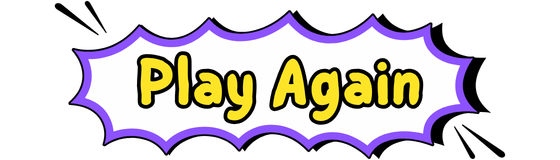
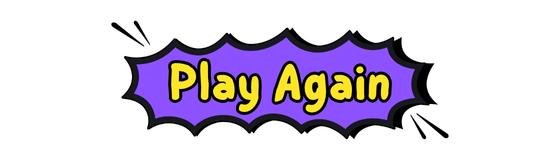
Custom Play Again Button Functionality Added

diff --git a/src/App.jsx b/src/App.jsx
@@ -561,7 +561,7 @@ export default function App() {
             </div>
           </div>
 
-          <button
+          <PlayAgainButton
             onClick={async () => {
               await update(ref(db, `rooms/${currentRoom}`), { status: 'lobby', winner: null, submissions: null });
               const resetPlayers = {};
@@ -570,10 +570,7 @@ export default function App() {
               });
               await update(ref(db, `rooms/${currentRoom}/players`), resetPlayers);
             }}
-            className="bg-amber-400 hover:bg-amber-300 text-black font-black py-2.5 px-6 rounded-2xl border-4 border-black shadow-[4px_4px_0px_0px_rgba(0,0,0,1)] text-base transition-all active:translate-x-1 active:translate-y-1 active:shadow-none cursor-pointer"
-          >
-            PLAY AGAIN
-          </button>
+          />
         </div>
       </div>
     );
@@ -769,6 +766,27 @@ function HostLobbyButton({ onClick }) {
         src={`${import.meta.env.BASE_URL}host-lobby-button.png`}
         alt="Host Lobby"
         className="w-40 sm:w-48 h-auto drop-shadow-[4px_4px_0px_rgba(0,0,0,1)] transition-all"
+      />
+    </button>
+  );
+}
+
+function PlayAgainButton({ onClick, disabled = false }) {
+  return (
+    <button
+      type="button"
+      onClick={onClick}
+      disabled={disabled}
+      className={`group relative border-none bg-transparent p-0 transition-transform duration-150 select-none inline-flex items-center justify-center ${
+        disabled
+          ? 'opacity-50 cursor-not-allowed grayscale'
+          : 'hover:scale-105 active:scale-95 cursor-pointer'
+      }`}
+    >
+      <img
+        src={`${import.meta.env.BASE_URL}play-again-button.png`}
+        alt="Play Again"
+        className="w-44 sm:w-52 h-auto drop-shadow-[5px_5px_0px_rgba(0,0,0,1)] transition-all"
       />
     </button>
   );
